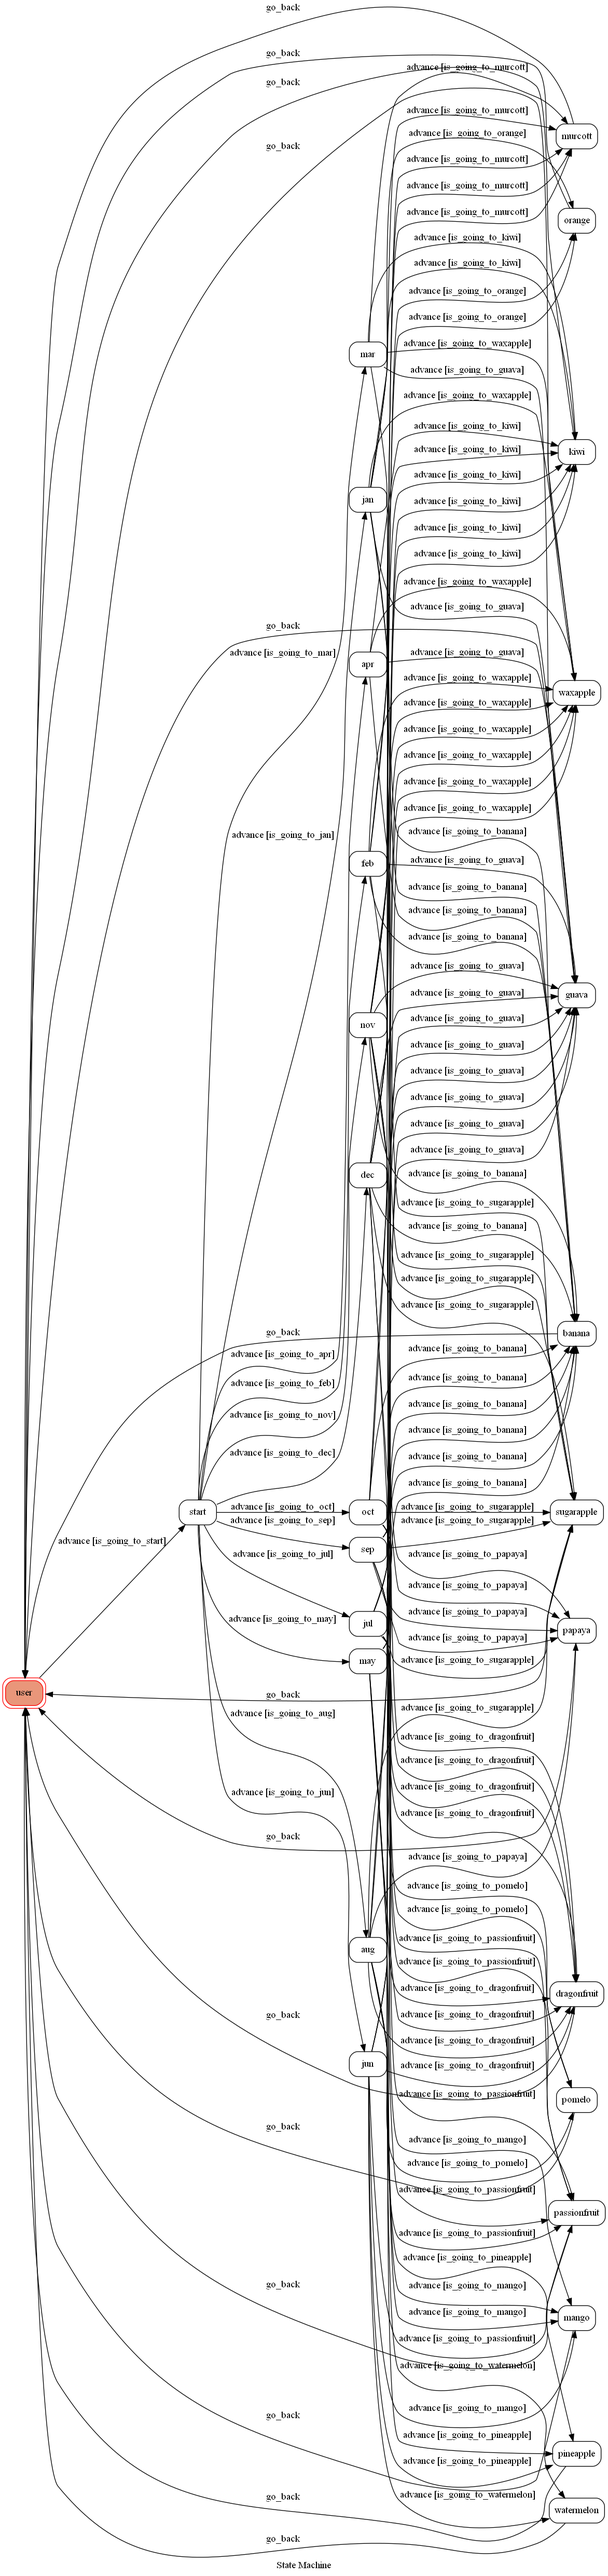
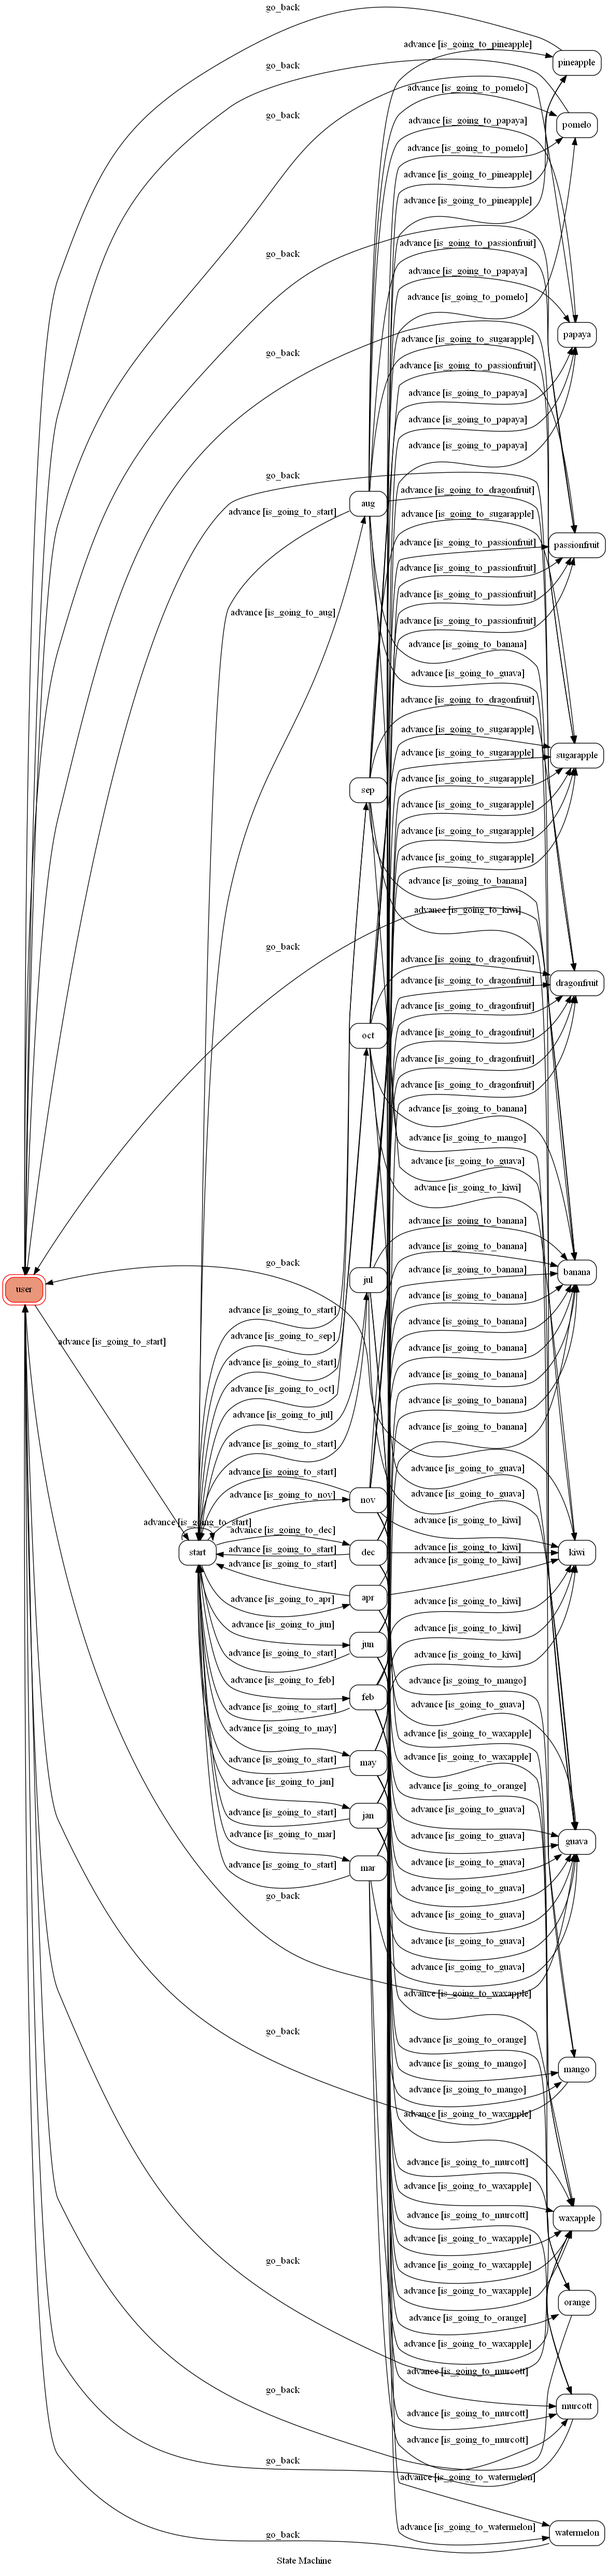
fix bug of cant return

diff --git a/app.py b/app.py
@@ -17,7 +17,7 @@ machine = TocMachine(
     transitions=[
         {
             "trigger": "advance",
-            "source": "user",
+            "source": ["user", "start", "feb", "mar", "apr","may","jun","jul","aug","sep","oct","nov","dec","jan"],
             "dest": "start",
             "conditions": "is_going_to_start",
         },
@@ -255,8 +255,7 @@ def webhook_handler():
         if response == False:
             if event.message.text == 'fsm':
                 send_image_message(event.reply_token,
-                                   ' https://drfruit.herokuapp.com/show-fsm')
-
+                                   ' https://89e2-36-237-89-62.ngrok.io/show-fsm')
             else:
                 send_text_message(event.reply_token,
                                   "輸入'start'來呼叫水果博士!")
